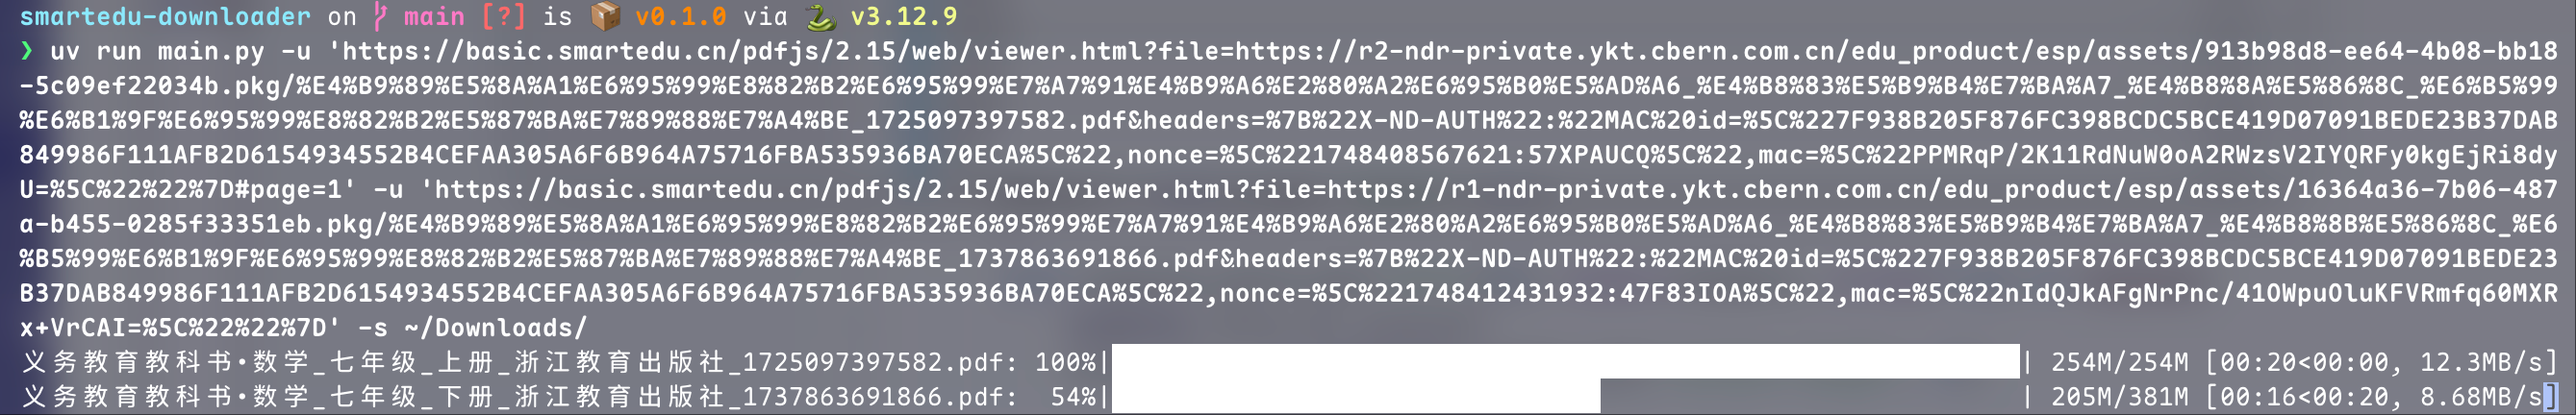
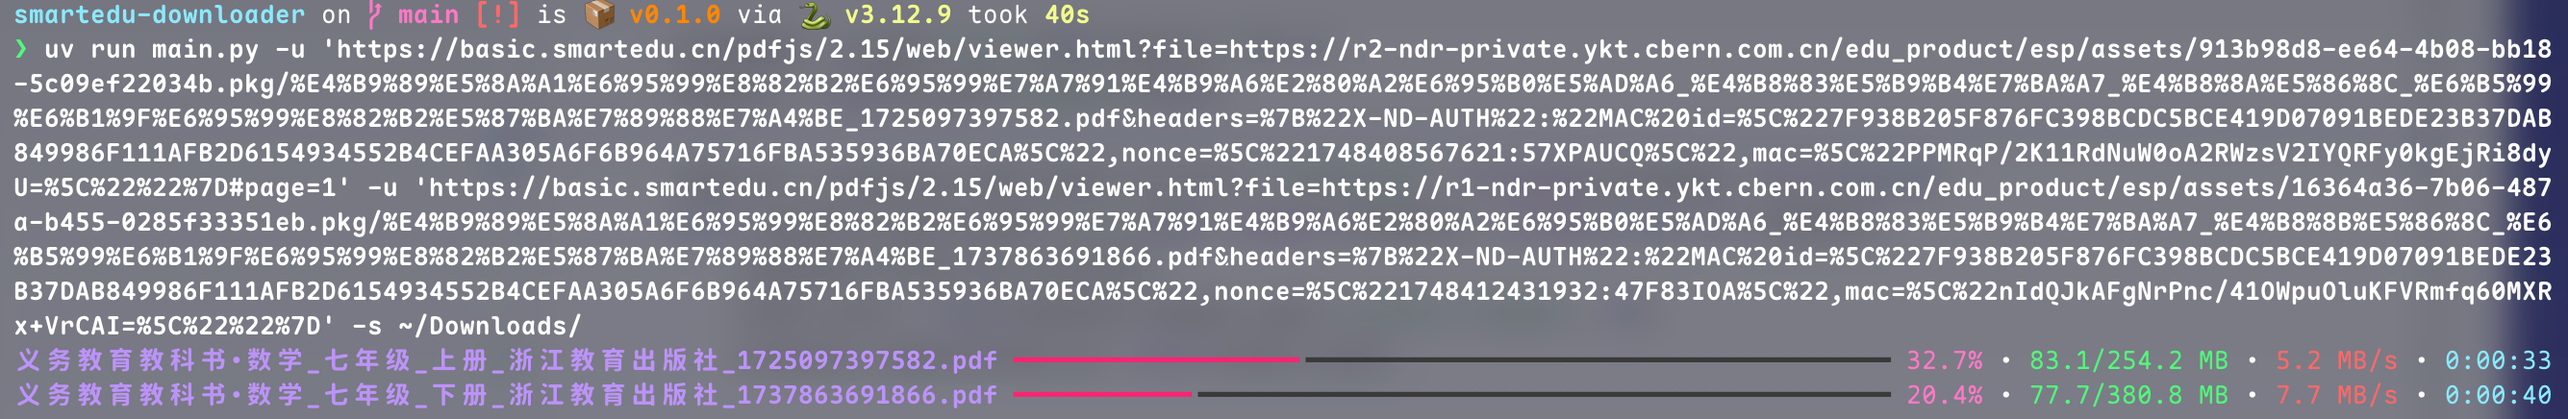
支持多文件同时下载；进度条改为rich.progress

diff --git a/downloader.py b/downloader.py
@@ -1,30 +1,67 @@
 import os
-import pathlib
 from urllib.parse import urlparse, parse_qs
+from concurrent.futures import ThreadPoolExecutor
 import click
+import signal
+from typing import Iterable
 import requests
-from tqdm import tqdm
+from rich.progress import (
+    BarColumn,
+    DownloadColumn,
+    Progress,
+    TextColumn,
+    TimeRemainingColumn,
+    TransferSpeedColumn,
+)
+from threading import Event
+
+progress = Progress(
+    TextColumn("[bold blue]{task.fields[filename]}", justify="right"),
+    BarColumn(bar_width=None),
+    "[progress.percentage]{task.percentage:>3.1f}%",
+    "•",
+    DownloadColumn(),
+    "•",
+    TransferSpeedColumn(),
+    "•",
+    TimeRemainingColumn(),
+)
+
+done_event = Event()
+
+def handle_sigint(signum, frame):
+    done_event.set()
+
+signal.signal(signal.SIGINT, handle_sigint)
 
 @click.command(context_settings={"help_option_names": ["-h", "--help"]}, help="从国家智慧教育公共服务平台下载教材")
 @click.option("-s", "--save_path", default=os.getcwd(), help="下载文件保存路径，默认为当前目录下")
 @click.option("-u", "--urls", required=True, multiple=True, help="下载地址，支持多个")
-def download(save_path, urls):
-    for url in urls:
-        parse_url(save_path, url)
+def executor(save_path: str, urls: Iterable[str]):
+    with progress:
+        with ThreadPoolExecutor(max_workers=5) as pool:
+            for url in urls:
+                pool.submit(download, save_path, url)
 
-def parse_url(save_path, url):
+def download(save_path: str, url: str):
     ret = urlparse(url)
     q = parse_qs(ret.query)
 
     filename = q.get('file')[0].split("/")[-1]
     headers = eval(q.get("headers")[0])
-    #
+
+    task_id = progress.add_task("download", filename=filename, start=False)
     with requests.get(q.get('file')[0], headers=headers, stream=True) as response:
         response.raise_for_status()
         total_size = int(response.headers.get('content-length', 0))
+        progress.update(task_id, total=total_size)
 
-        with tqdm(total=total_size, unit='B', unit_scale=True, desc=filename) as pbar:
-            with open(os.path.join(save_path, filename), 'wb') as f:
-                for chunk in response.iter_content(1024):
-                    f.write(chunk)
-                    pbar.update(len(chunk))
+        with open(os.path.join(save_path, filename), 'wb') as f:
+            progress.start_task(task_id)
+            for chunk in response.iter_content(1024):
+                f.write(chunk)
+                progress.update(task_id, advance=len(chunk))
+                if done_event.is_set():
+                    return
+
+        progress.console.log(f"{filename} 下载完成")

diff --git a/main.py b/main.py
@@ -1,7 +1,7 @@
-from downloader import download
+from downloader import executor
 
 def main():
-    download()
+    executor()
 
 if __name__ == "__main__":
     main()

diff --git a/README.md b/README.md
@@ -4,7 +4,7 @@
 
 ## 特点及示例
 - 命令行，无GUI，兼容主流操作系统；
-- 支持一次下载多个文件；
+- 支持多文件同时下载；
 
 ![截图](./res/cli.png)
 
